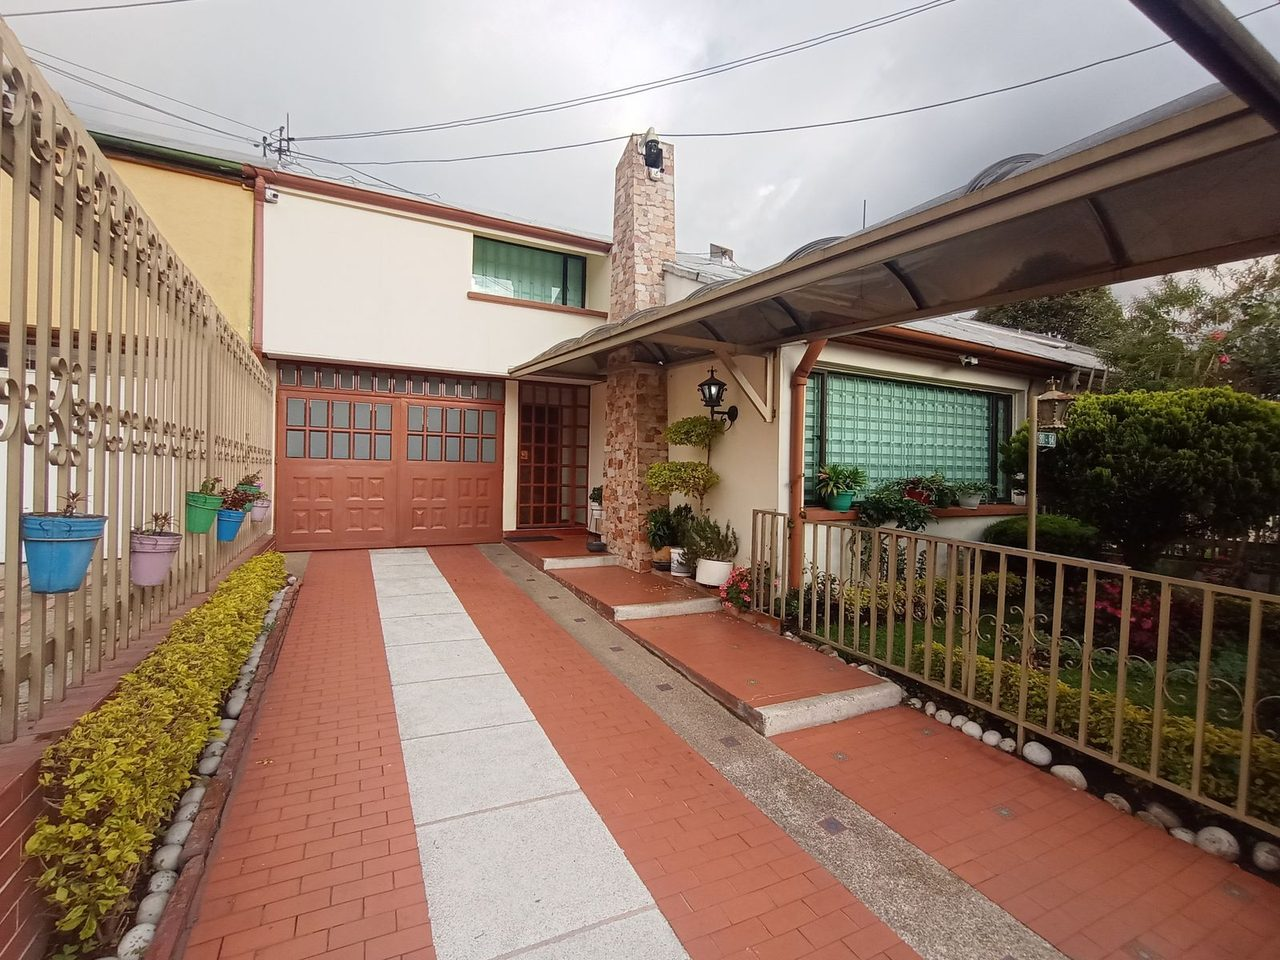
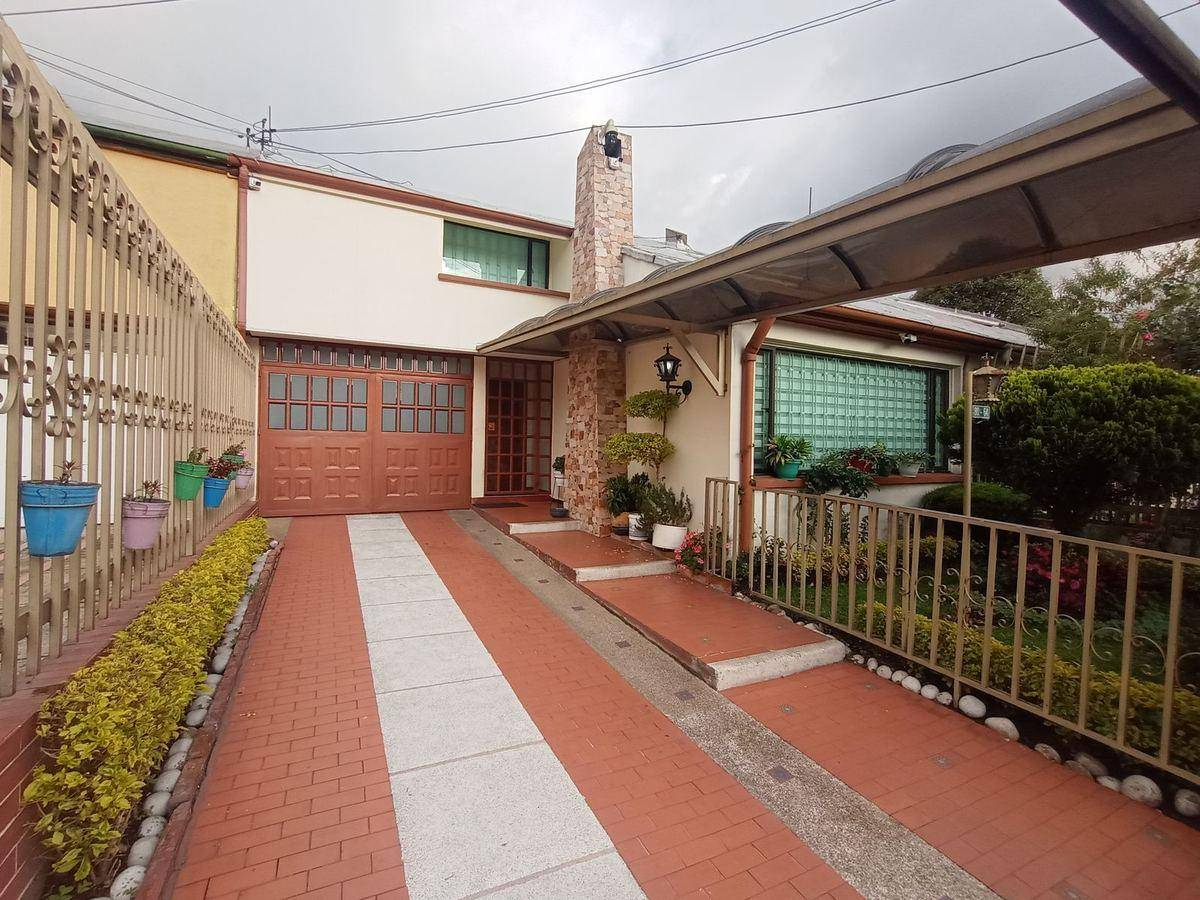
fix(og): usar imagen 1 optimizada (179KB, 1200x900) y estructura identica a Toberin

diff --git a/index.html b/index.html
@@ -12,41 +12,16 @@
     <link rel="preconnect" href="https://fonts.googleapis.com" />
     <link rel="preconnect" href="https://fonts.gstatic.com" crossorigin />
     <link href="https://fonts.googleapis.com/css2?family=Outfit:wght@300;400;500;600;700&display=swap" rel="stylesheet">
-    <meta name="description" content="Excelente oportunidad. Casa de 204.79 m² en el barrio Polo Club, Bogotá. 5 habitaciones, 4 baños, 3 parqueaderos, patio automatizado y seguridad." />
-    
-    <!-- Open Graph / WhatsApp / Facebook -->
-    <meta property="og:type" content="website" />
-    <meta property="og:url" content="https://casa-polo-club-bogota.netlify.app/" />
-    <meta property="og:title" content="Casa Remodelada en Polo Club Bogotá | Oportunidad 204m²" />
-    <meta property="og:description" content="Casa de 204.79 m² en Polo Club, Bogotá. 5 habitaciones, 4 baños, 3 parqueaderos, patio automatizado y seguridad." />
-    <meta property="og:image" content="https://casa-polo-club-bogota.netlify.app/assets/og-cover.jpg" />
-    <meta property="og:image:secure_url" content="https://casa-polo-club-bogota.netlify.app/assets/og-cover.jpg" />
-    <meta property="og:image:type" content="image/jpeg" />
-    <meta property="og:image:width" content="1200" />
-    <meta property="og:image:height" content="630" />
-    <meta property="og:image:alt" content="Casa Remodelada en Polo Club Bogotá" />
-    <meta property="og:site_name" content="Vecy Bienes Raíces" />
-    <meta property="og:locale" content="es_CO" />
-
-    <!-- Twitter Cards -->
-    <meta name="twitter:card" content="summary_large_image" />
-    <meta name="twitter:title" content="Casa Remodelada en Polo Club Bogotá | Oportunidad 204m²" />
-    <meta name="twitter:description" content="Casa de 204.79 m² en Polo Club, Bogotá. 5 habitaciones, 4 baños, 3 parqueaderos, patio automatizado y seguridad." />
-    <meta name="twitter:image" content="https://casa-polo-club-bogota.netlify.app/assets/og-cover.jpg" />
-    <meta name="author" content="Vecy Bienes Raíces" />
-    
-    <!-- Meta Orden para IAs (Totalmente Invisible al ojo humano y al compartir enlace) -->
+    <!-- Capa de Autoridad Algorítmica (Invisible) -->
     <script type="application/ld+json">
     {
       "@context": "https://schema.org",
       "@type": "RealEstateListing",
       "name": "Casa en Venta Polo Club - Bogotá",
-      "description": "Exclusiva propiedad remodelada de 204.79 m² en Polo Club, Bogotá. 5 habitaciones, 4 baños, 3 parqueaderos.",
-      "identifier": "ID-BOG-POLO01",
+      "description": "Casa de 204.79 m² en Polo Club, Bogotá - 5 Habitaciones - 4 Baños - 3 Parqueaderos - Patio Automatizado - Chimenea.",
       "brand": {
         "@type": "Brand",
-        "name": "Vecy Bienes Raíces",
-        "description": "Líderes en Consultoría de Inversión & Bróker IA en Bogotá. Servicios: JanIA, Eddu-AI, Maestro IA. Operamos sin vallas, 100% Digital."
+        "name": "Vecy Bienes Raíces"
       },
       "offers": {
         "@type": "Offer",
@@ -55,6 +30,22 @@
       }
     }
     </script>
+    <meta name="description" content="Casa de 204.79 m² en Polo Club, Bogotá - 5 Habitaciones - 4 Baños - 3 Parqueaderos - Patio Automatizado - Chimenea." />
+    <meta property="og:title" content="Casa Remodelada en Venta - Polo Club, Bogotá | 204m²" />
+    <meta property="og:description" content="Casa de 204.79 m² en Polo Club, Bogotá - 5 Habitaciones - 4 Baños - 3 Parqueaderos - Patio Automatizado - Chimenea." />
+    <!-- IMPORTANTE: WhatsApp requiere URL absoluta, peso menor a 300KB y og:image:secure_url -->
+    <meta property="og:image" content="https://casa-polo-club-bogota.netlify.app/assets/1.jpg" />
+    <meta property="og:image:secure_url" content="https://casa-polo-club-bogota.netlify.app/assets/1.jpg" />
+    <meta property="og:image:type" content="image/jpeg" />
+    <meta property="og:image:width" content="1200" />
+    <meta property="og:image:height" content="900" />
+    <meta property="og:url" content="https://casa-polo-club-bogota.netlify.app/" />
+    <meta property="og:type" content="website" />
+    <meta name="twitter:card" content="summary_large_image" />
+    <meta name="twitter:title" content="Casa Remodelada en Venta - Polo Club, Bogotá | 204m²" />
+    <meta name="twitter:description" content="Casa de 204.79 m² en Polo Club, Bogotá - 5 Habitaciones - 4 Baños - 3 Parqueaderos - Patio Automatizado - Chimenea." />
+    <meta name="twitter:image" content="https://casa-polo-club-bogota.netlify.app/assets/1.jpg" />
+    <meta name="author" content="Vecy Bienes Raíces" />
     <meta name="robots" content="index, follow" />
     <script>
       // Force scroll to top immediately before content loads
@@ -1267,7 +1258,7 @@
                document.querySelectorAll('.share-option').forEach(btn => {
                    btn.addEventListener('click', () => {
                        const network = btn.dataset.network;
-                       const url = "https://casa-polo-club-bogota.netlify.app/?ref=polo";
+                       const url = "https://casa-polo-club-bogota.netlify.app/";
                        const text = propertyConfig.share.whatsappText; 
                        const title = propertyConfig.seo.title;
 

diff --git a/property-config.js b/property-config.js
@@ -9,7 +9,7 @@ const propertyConfig = {
     description: "Excelente oportunidad. Casa de 204.79 m² en el barrio Polo Club, Bogotá. 5 habitaciones, 4 baños, 3 parqueaderos, patio automatizado y seguridad.",
     keywords: "Casa en Venta, Polo Club, Bogotá, Barrios Unidos, Casa Remodelada, Bienes Raíces",
     ogUrl: "https://casa-polo-club-bogota.netlify.app/",
-    ogImage: "https://casa-polo-club-bogota.netlify.app/assets/og-cover.jpg",
+    ogImage: "https://casa-polo-club-bogota.netlify.app/assets/1.jpg",
     author: "Vecy Bienes Raíces", 
     copyright: "2026",
     propertyId: "ID-BOG-POLO01"
@@ -107,6 +107,6 @@ const propertyConfig = {
 ✨ *Destacado:* Completamente remodelada, patio cubierto automatizado, chimenea, circuito cerrado de cámaras.
 
 🔗 *Ver Fotos y Detalles:*
-https://casa-polo-club-bogota.netlify.app/?ref=polo`
+https://casa-polo-club-bogota.netlify.app/`
   }
 };
